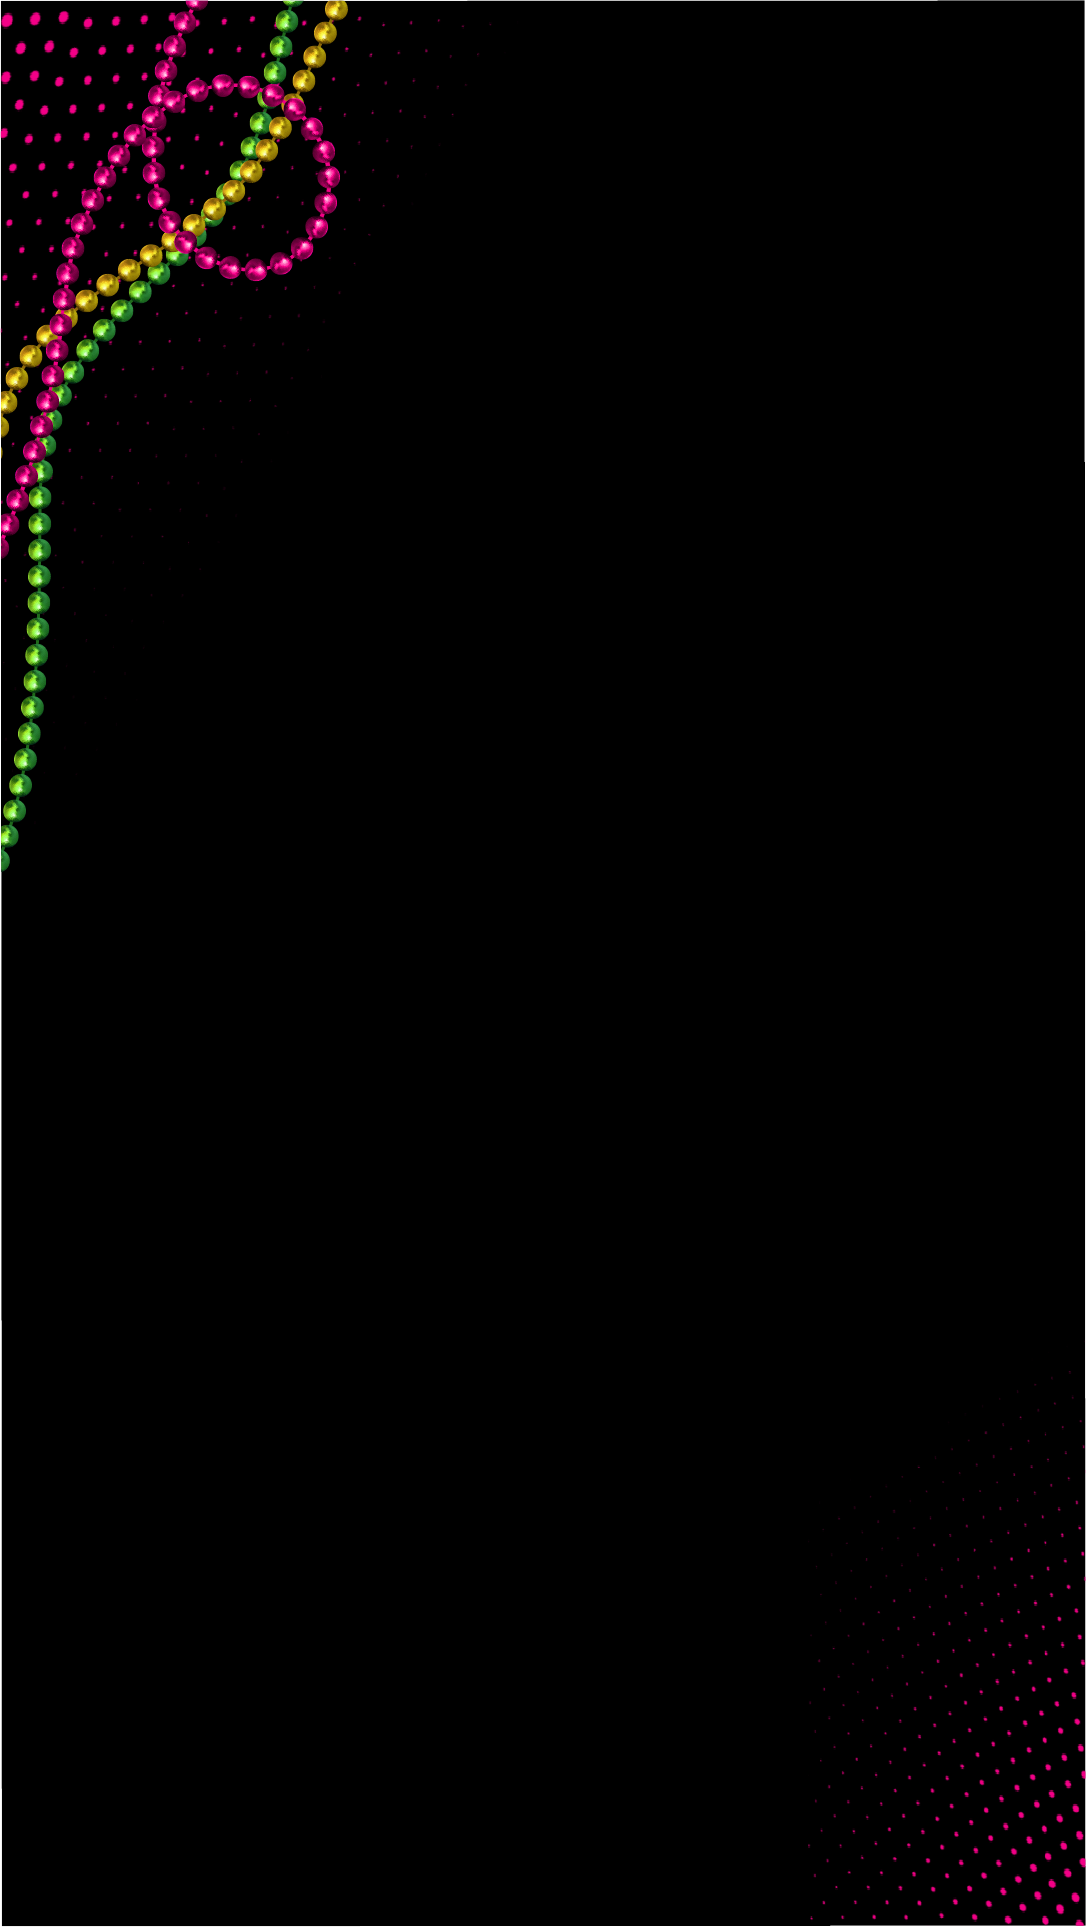
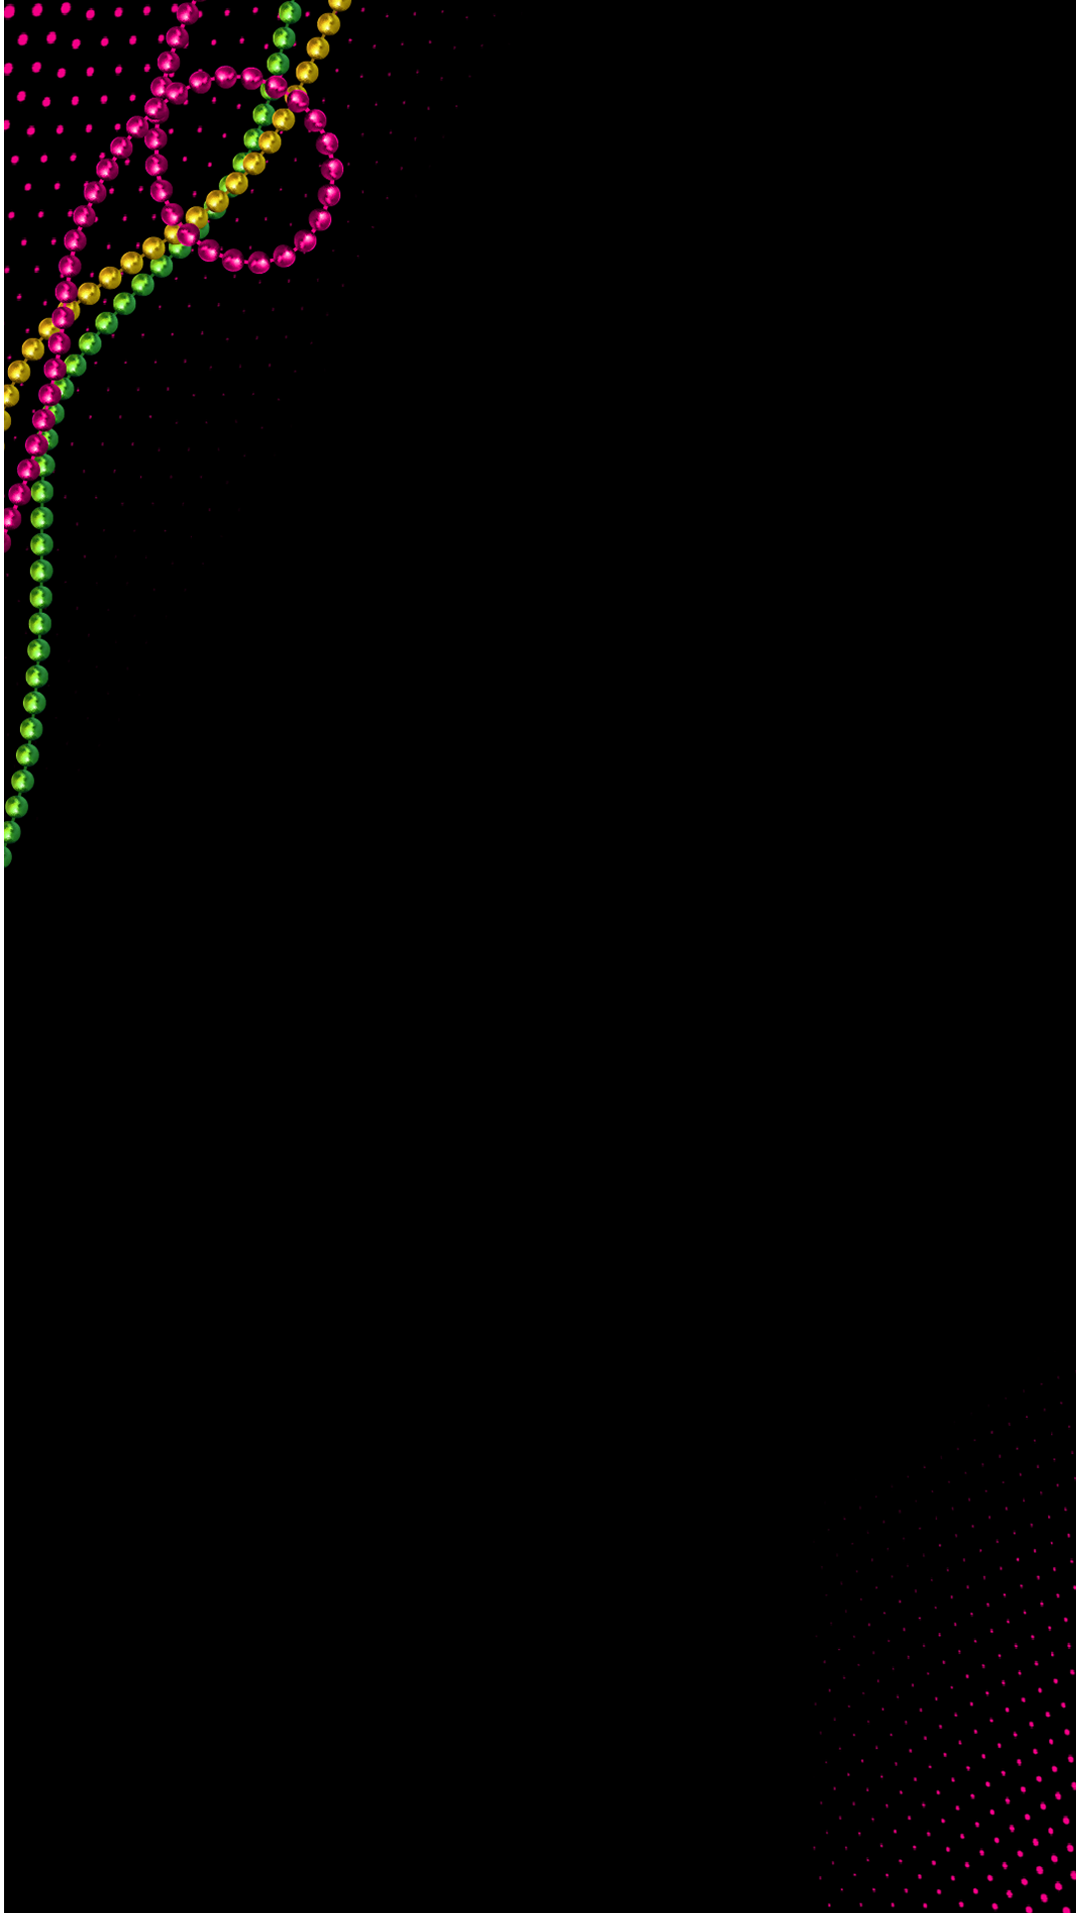
few changes

Changed region(s): [[0.0, 0.0, 0.3374, 0.4626], [0.7667, 0.8019, 1.0, 1.0], [0.9814, 0.0, 1.0, 0.0308]]

diff --git a/CSS/styles.css b/CSS/styles.css
@@ -33,8 +33,9 @@ html, body {
 }
 
 body {
-    background: url('../images/169_bg.png') no-repeat center center;
-    background-size: cover;
+    background-color: black;
+    background: black url('../images/169_bg.png') no-repeat center center;
+    background-size: contain;
     background-position: center center;
     background-attachment: fixed;
     color: var(--color-text);
@@ -470,29 +471,12 @@ body {
 @media screen and (max-width: 768px) {
     /* Base Layout Adjustments */
     body {
-        background: url(../images/916_bg.png) no-repeat center center;
-        background-size: cover !important;
-        background-position: center center !important;
-        transition: none !important;
-        background-attachment: fixed !important;
-    }
-    body {
-        background-size: auto 100%;
-        background-attachment: scroll;
-        height: auto;
-        padding: 1rem;
-    }
-
-    @supports (-webkit-touch-callout: none) {
-        body {
-            background-attachment: scroll;
-            /* Use standard viewport units with a fallback */
-            min-height: 100vh;
-            /* Add padding to prevent content from being hidden behind mobile browser UI */
-            padding-bottom: env(safe-area-inset-bottom);
-            /* Ensure content is visible on notched devices */
-            padding-top: env(safe-area-inset-top);
-        }
+        background: black url('../images/916_bg.png') no-repeat center center;
+        background-size: cover;
+        background-position: center center;
+        background-attachment: fixed;
+        text-align: center;
+        padding:1rem;
     }
 
     /* Container Adjustments */
@@ -505,31 +489,42 @@ body {
         margin: 2rem auto;
         padding: 1rem;
     }
-
+    .location-container h2{
+        text-align: left;
+        padding: 0 1rem;
+    }
     /* Text Sizing and Alignment */
     .main-container h2 {
         margin-top: -2rem;
-        font-size: 2rem;
-        text-align: center;
-        padding: 0 1rem;
+        font-size: 1.5rem;
+        text-align: justify-all;
+        padding: 0 0.8rem;
+        margin-bottom: 0.2rem;
     }
 
-    .description,
-    .booking-text,
-    .info-text,
-    .agenda-text,
-    .location-address,
-    .location-note {
+    .description{
         font-size: 1rem;
         text-align: center;
         padding: 0 1rem;
         margin-bottom: 1rem;
     }
 
-    /* Section Layout Adjustments */
+    .booking-text,
+    .info-text,
+    .agenda-text,
+    .location-address,
+    .location-note{
+        font-size: 1rem;
+        text-align: left;
+        padding: 0 1rem;
+        margin-bottom: 1rem;
+    }
+
+        /* Section Layout Adjustments */
     .location-section,
     .booking-section,
-    .additional-info-section {
+    .additional-info-section
+    {
         flex-direction: column;
         align-items: center;
         gap: 2rem;
@@ -544,6 +539,14 @@ body {
         width: 100%;
         max-width: 100%;
         text-align: center;
+    }
+
+    .agenda-section,
+    .agenda-content {
+        padding: 0.5em;
+    }
+    .agenda-text {
+        text-align: left;
     }
 
     /* Remove Side Padding */
@@ -626,14 +629,11 @@ body {
 }
 
 /* Additional Breakpoint for Extra Small Devices */
-@media screen and (max-width: 480px) {
+@media screen and (max-width: 450px) {
     body {
-        background: url(../images/916_bg.png) no-repeat center center;
-        background-size: cover !important;
-        background-position: center center !important;
-        transition: none !important;
-        background-attachment: fixed !important;
+        background-size: contain;
     }
+
     /* Further Text Size Reductions */
     .main-container h2 {
         font-size: 1.35rem;
@@ -697,7 +697,7 @@ body {
 }
 
 /* Landscape Mode Fixes */
-@media screen and (max-height: 480px) and (orientation: landscape) {
+@media screen and (max-height: 450px) and (orientation: landscape) {
     .main-container {
         margin-top: 1rem;
     }

diff --git a/index.html b/index.html
@@ -3,6 +3,7 @@
 <head>
     <meta charset="UTF-8">
     <meta name="viewport" content="width=device-width, initial-scale=1.0">
+    <meta property="og:image" content="images/logo_prev.png">
     <title>Perion North America Offsite</title>
     <link rel="stylesheet" href="CSS/styles.css">
     <link href="https://fonts.googleapis.com/css2?family=Playfair+Display:wght@700&display=swap" rel="stylesheet">
